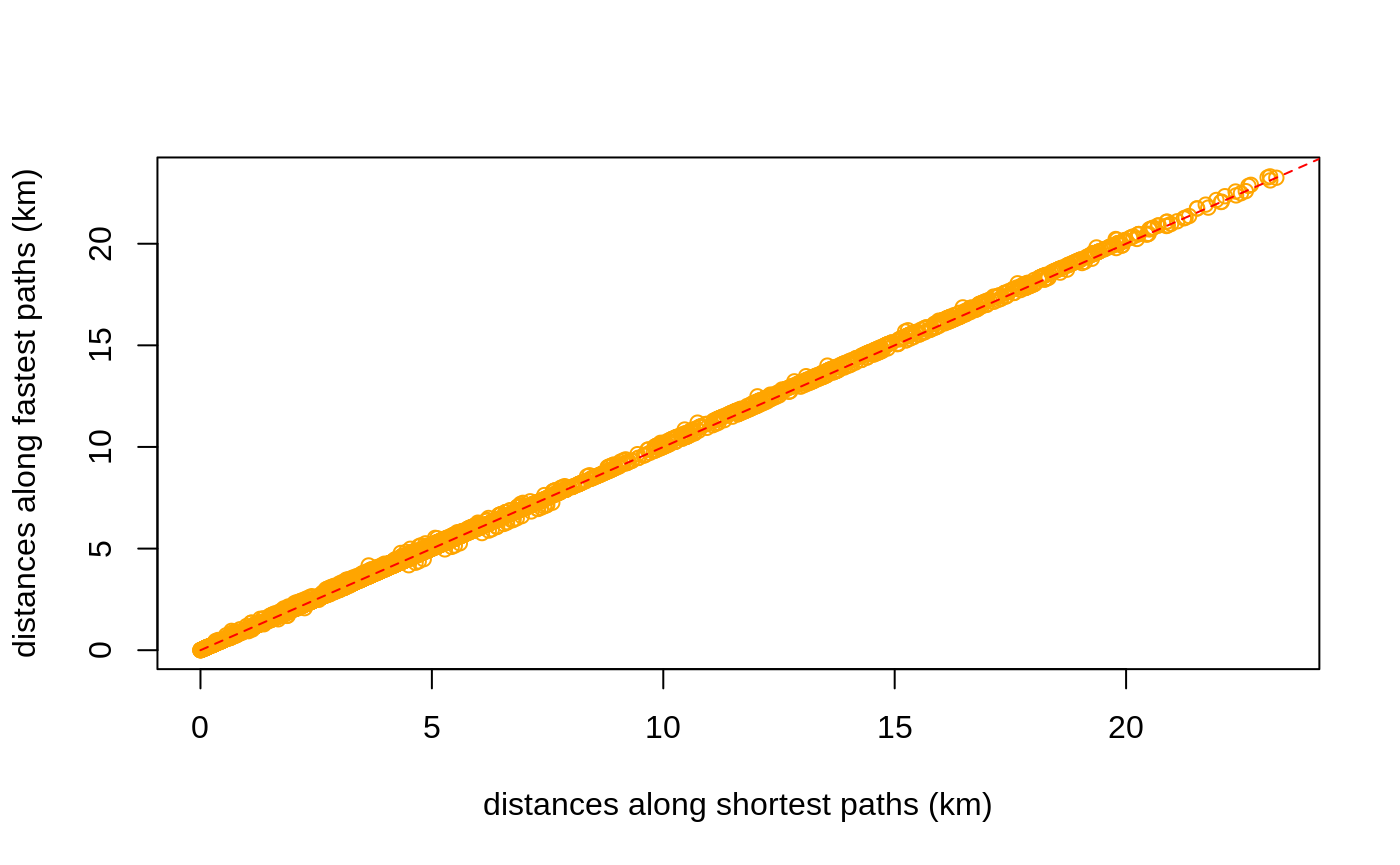
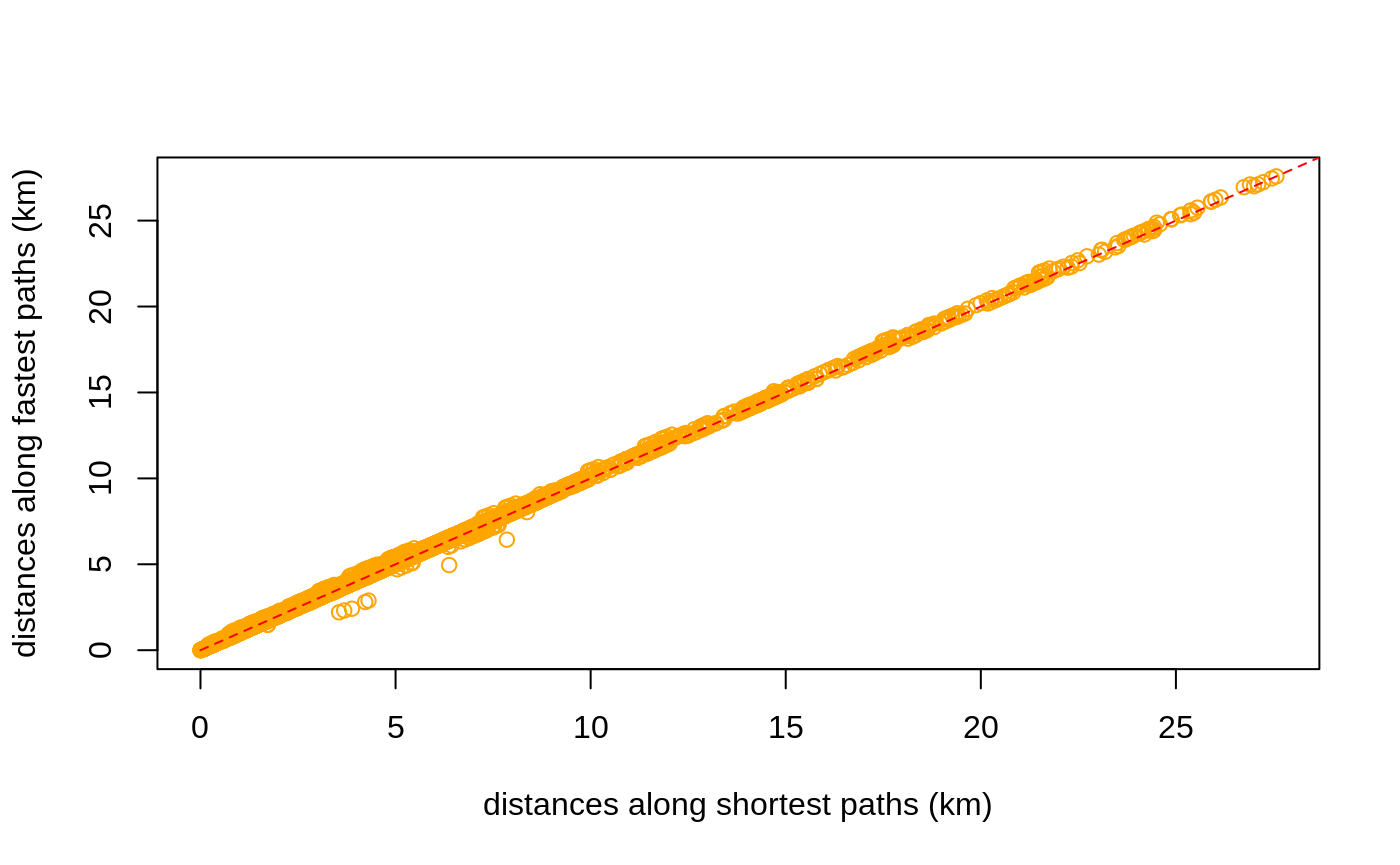
Built site for dodgr: 0.2.3@3f12f48

diff --git a/articles/dodgr.html b/articles/dodgr.html
@@ -347,7 +347,7 @@ Figure 2: A <strong>dual</strong>-weighted, directed graph in which the weights 
 <p>The <code>dodgr</code> packages includes a function to select a random connected portion of graph including a specified number of vertices. This function is used in the <a href="https://atfutures.github.io/dodgr/reference/compare_heaps.html"><code><a href="../reference/compare_heaps.html">compare_heaps()</a></code></a> function described below, but is also useful for general statistical analyses of large graphs which may otherwise take too long to compute.</p>
 <div class="sourceCode" id="cb59"><pre class="sourceCode r"><code class="sourceCode r"><a class="sourceLine" id="cb59-1" data-line-number="1">graph_sub &lt;-<span class="st"> </span><span class="kw"><a href="../reference/dodgr_sample.html">dodgr_sample</a></span> (graph, <span class="dt">nverts =</span> <span class="dv">100</span>)</a>
 <a class="sourceLine" id="cb59-2" data-line-number="2"><span class="kw"><a href="https://rdrr.io/r/base/nrow.html">nrow</a></span> (graph_sub)</a></code></pre></div>
-<pre><code>## [1] 201</code></pre>
+<pre><code>## [1] 207</code></pre>
 <p>The random sample has around twice as many edges as vertices, in accordance with the statistics calculated above.</p>
 <div class="sourceCode" id="cb61"><pre class="sourceCode r"><code class="sourceCode r"><a class="sourceLine" id="cb61-1" data-line-number="1"><span class="kw"><a href="https://rdrr.io/r/base/nrow.html">nrow</a></span> (<span class="kw"><a href="../reference/dodgr_vertices.html">dodgr_vertices</a></span> (graph_sub))</a></code></pre></div>
 <pre><code>## [1] 100</code></pre>
@@ -425,31 +425,31 @@ Figure 2: A <strong>dual</strong>-weighted, directed graph in which the weights 
 <div class="sourceCode" id="cb77"><pre class="sourceCode r"><code class="sourceCode r"><a class="sourceLine" id="cb77-1" data-line-number="1"><span class="kw"><a href="../reference/compare_heaps.html">compare_heaps</a></span> (graph, <span class="dt">nverts =</span> <span class="dv">1000</span>, <span class="dt">replications =</span> <span class="dv">1</span>)</a></code></pre></div>
 <pre><code>## Loading required namespace: rbenchmark</code></pre>
 <pre><code>##                                                                                   test
-## 7       d &lt;- dodgr_dists(graph_contracted, from = from_id, to = to_id, heap = "FHeap")
-## 11        d &lt;- dodgr_dists(graph_contracted, from = from_id, to = to_id, heap = "set")
 ## 6       d &lt;- dodgr_dists(graph_contracted, from = from_id, to = to_id, heap = "BHeap")
+## 10     d &lt;- dodgr_dists(graph_contracted, from = from_id, to = to_id, heap = "Heap23")
+## 11        d &lt;- dodgr_dists(graph_contracted, from = from_id, to = to_id, heap = "set")
+## 7       d &lt;- dodgr_dists(graph_contracted, from = from_id, to = to_id, heap = "FHeap")
 ## 8     d &lt;- dodgr_dists(graph_contracted, from = from_id, to = to_id, heap = "TriHeap")
 ## 9  d &lt;- dodgr_dists(graph_contracted, from = from_id, to = to_id, heap = "TriHeapExt")
-## 10     d &lt;- dodgr_dists(graph_contracted, from = from_id, to = to_id, heap = "Heap23")
 ## 1                  d &lt;- dodgr_dists(graph, from = from_id, to = to_id, heap = "BHeap")
 ## 12                  d &lt;- igraph::distances(igr, v = from_id, to = to_id, mode = "out")
 ## 2                  d &lt;- dodgr_dists(graph, from = from_id, to = to_id, heap = "FHeap")
-## 3                d &lt;- dodgr_dists(graph, from = from_id, to = to_id, heap = "TriHeap")
 ## 5                 d &lt;- dodgr_dists(graph, from = from_id, to = to_id, heap = "Heap23")
+## 3                d &lt;- dodgr_dists(graph, from = from_id, to = to_id, heap = "TriHeap")
 ## 4             d &lt;- dodgr_dists(graph, from = from_id, to = to_id, heap = "TriHeapExt")
 ##    replications elapsed relative user.self sys.self user.child sys.child
-## 7             1   0.003    1.000     0.005        0          0         0
-## 11            1   0.003    1.000     0.004        0          0         0
-## 6             1   0.004    1.333     0.005        0          0         0
-## 8             1   0.004    1.333     0.006        0          0         0
-## 9             1   0.004    1.333     0.004        0          0         0
-## 10            1   0.005    1.667     0.006        0          0         0
-## 1             1   0.012    4.000     0.018        0          0         0
-## 12            1   0.015    5.000     0.015        0          0         0
-## 2             1   0.017    5.667     0.027        0          0         0
-## 3             1   0.019    6.333     0.032        0          0         0
-## 5             1   0.019    6.333     0.032        0          0         0
-## 4             1   0.021    7.000     0.022        0          0         0</code></pre>
+## 6             1   0.003    1.000     0.004        0          0         0
+## 10            1   0.004    1.333     0.007        0          0         0
+## 11            1   0.004    1.333     0.004        0          0         0
+## 7             1   0.005    1.667     0.006        0          0         0
+## 8             1   0.005    1.667     0.007        0          0         0
+## 9             1   0.005    1.667     0.005        0          0         0
+## 1             1   0.014    4.667     0.020        0          0         0
+## 12            1   0.018    6.000     0.017        0          0         0
+## 2             1   0.019    6.333     0.032        0          0         0
+## 5             1   0.021    7.000     0.036        0          0         0
+## 3             1   0.022    7.333     0.038        0          0         0
+## 4             1   0.025    8.333     0.025        0          0         0</code></pre>
 <p>The key column of that <code>data.frame</code> is <code>relative</code>, which quantifies the relative performance of each test in relation to the best which is given a score of 1. <code>dodgr</code> using the default <code>heap = "BHeap"</code>, which is a binary heap priority queue, performs faster than <a href="https://igraph.org"><code>igraph</code></a> <span class="citation">(Csardi and Nepusz 2006)</span> for these graphs. Different kind of graphs will perform differently with different priority queue structures, and this function enables users to empirically discern the optimal heap for their kind of graph.</p>
 <p>Note, however, that this is not an entirely fair comparison, because <code>dodgr</code> calculates dual-weighted distances, whereas <a href="https://igraph.org"><code>igraph</code></a>—and indeed all other <strong>R</strong> packages—only directly calculate distances based on a single set of weights. Implementing dual-weighted routing in these cases requires explicitly re-tracing all paths and summing the second set of weights along each path. A time comparison in that case would be very strongly in favour of <code>dodgr</code>. Moreover, <code>dodgr</code> can convert graphs to contracted form through removing redundant vertices, as detailed in the following section. Doing so greatly improves performance with respect to <a href="https://igraph.org"><code>igraph</code></a>.</p>
 <p>For those wishing to do explicit comparisons themselves, the following code generates the <a href="https://igraph.org"><code>igraph</code></a> equivalent of <a href="https://atfutures.github.io/dodgr/reference/dodgr_distances.html"><code><a href="../reference/dodgr_distances.html">dodgr_distances()</a></code></a>, although of course for single-weighted graphs only:</p>
@@ -488,7 +488,7 @@ Figure 3: <strong>(A)</strong> Vertex#2 is redundant for routing calculations fr
 ## 1   d2 &lt;- dodgr_dists(grc, from = from, to = to)            2   0.009
 ##   relative user.self sys.self user.child sys.child
 ## 2    5.111     0.066        0          0         0
-## 1    1.000     0.011        0          0         0</code></pre>
+## 1    1.000     0.012        0          0         0</code></pre>
 <p>And contracting the graph has a similar effect of speeding up pairwise routing between these 100 points. All routing algorithms scale non-linearly with size, and relative improvements in efficiency will be even greater for larger graphs.</p>
 <div id="routing-on-contracted-graphs" class="section level2">
 <h2 class="hasAnchor">
@@ -500,11 +500,11 @@ Figure 3: <strong>(A)</strong> Vertex#2 is redundant for routing calculations fr
 <pre><code>## [1] 672</code></pre>
 <div class="sourceCode" id="cb90"><pre class="sourceCode r"><code class="sourceCode r"><a class="sourceLine" id="cb90-1" data-line-number="1">verts &lt;-<span class="st"> </span><span class="kw"><a href="https://rdrr.io/r/base/sample.html">sample</a></span> (<span class="kw"><a href="../reference/dodgr_vertices.html">dodgr_vertices</a></span> (graph)<span class="op">$</span>id, <span class="dt">size =</span> <span class="dv">100</span>)</a>
 <a class="sourceLine" id="cb90-2" data-line-number="2"><span class="kw"><a href="https://rdrr.io/r/utils/head.html">head</a></span> (verts) <span class="co"># a character vector</span></a></code></pre></div>
-<pre><code>## [1] "6161853487" "2608159695" "1376768547" "2627422264" "2588155710"
-## [6] "2195424938"</code></pre>
+<pre><code>## [1] "571423442"  "1204772663" "3697937604" "3697942889" "3921523006"
+## [6] "1148814809"</code></pre>
 <div class="sourceCode" id="cb92"><pre class="sourceCode r"><code class="sourceCode r"><a class="sourceLine" id="cb92-1" data-line-number="1">grc &lt;-<span class="st"> </span><span class="kw"><a href="../reference/dodgr_contract_graph.html">dodgr_contract_graph</a></span> (graph, verts)</a>
 <a class="sourceLine" id="cb92-2" data-line-number="2"><span class="kw"><a href="https://rdrr.io/r/base/nrow.html">nrow</a></span> (grc)</a></code></pre></div>
-<pre><code>## [1] 840</code></pre>
+<pre><code>## [1] 860</code></pre>
 <p>Retaining the nominated vertices yields a graph with considerably more edges than the fully contracted graph excluding these vertices. The <a href="https://atfutures.github.io/dodgr/reference/dodgr_distances.html"><code><a href="../reference/dodgr_distances.html">dodgr_distances()</a></code></a> function can be applied to the latter graph to obtain accurate distances precisely routed between these points, yet using the speed advantages of graph contraction.</p>
 </div>
 </div>
@@ -545,44 +545,42 @@ Figure 3: <strong>(A)</strong> Vertex#2 is redundant for routing calculations fr
 <pre><code>## [1] 10</code></pre>
 <p>The result (<code>dp</code>) is a list of 10 items, each of which contains 5 vectors. An example is,</p>
 <div class="sourceCode" id="cb99"><pre class="sourceCode r"><code class="sourceCode r"><a class="sourceLine" id="cb99-1" data-line-number="1">dp [[<span class="dv">1</span>]] [[<span class="dv">1</span>]]</a></code></pre></div>
-<pre><code>##   [1] "2608163948" "2608163947" "2608163946" "2608163945" "2608163944"
-##   [6] "2608163943" "2608163942" "2608163941" "2608163940" "2608163939"
-##  [11] "2608163938" "2608163937" "2608163936" "2608163935" "2627428636"
-##  [16] "2627428640" "2627428642" "3921512068" "2627428643" "2627428645"
-##  [21] "2627428641" "2627428646" "2627428638" "2627428651" "2627430653"
-##  [26] "2627428637" "2627428647" "2627428629" "2627428627" "2627428628"
-##  [31] "2627428631" "2627428633" "2627428625" "1143452165" "1143452327"
-##  [36] "1143452463" "1143452113" "1143452207" "1143452383" "1143452534"
-##  [41] "1143452145" "2627440420" "2627440424" "1143452232" "1143452410"
-##  [46] "1143452262" "1143452379" "1143452183" "1143452174" "1143452087"
-##  [51] "1143452415" "1143452293" "1143452135" "1143452063" "1143452360"
-##  [56] "1143452234" "1143452099" "1143452506" "3697940688" "3697940693"
-##  [61] "571423793"  "1143452264" "571423799"  "1143452116" "1143452536"
-##  [66] "571423809"  "571423815"  "571423818"  "1143452332" "571423819" 
-##  [71] "977490135"  "977490141"  "977490130"  "1388482916" "1388483223"
-##  [76] "1388482536" "1388482060" "2718045832" "2195424937" "2195424935"
-##  [81] "2195424934" "2195424938" "2195424940" "2195424943" "2195424944"
-##  [86] "2195424950" "2195424951" "2195424956" "2195424955" "2195424948"
-##  [91] "2195424942" "2195424936" "2195424933" "2195424931" "2195424932"
-##  [96] "2195424929" "2195424930" "2195424945" "2195424953" "2195424954"
-## [101] "2195424961" "2195424963" "2195424968" "2195424970" "2195424973"
-## [106] "2195424974" "2195424980" "2195424981" "2195424983" "2195424988"
-## [111] "2195424989" "2195424993" "2195425003" "2195425012" "2195425016"
-## [116] "2195425019" "2627488725" "2195425028" "2195425035" "2195425056"
-## [121] "2195425066" "2195425067" "2195425068" "2195425069" "2195425070"
-## [126] "2195425073" "2195425074" "2195425075" "2195425078" "2195425080"
-## [131] "2195425082" "2195425085" "2195425087" "2195425092"</code></pre>
+<pre><code>##   [1] "3921523906" "1204772726" "1204772914" "1388483784" "1388482296"
+##   [6] "1388483001" "1204772748" "1204772807" "1204772888" "1388483168"
+##  [11] "1204772860" "1204772663" "1388482943" "1388482235" "977472736" 
+##  [16] "977472640"  "1388483756" "1388483120" "977472872"  "977472830" 
+##  [21] "977473072"  "977472969"  "1388483451" "977473047"  "6410121123"
+##  [26] "2627480728" "4552228189" "977472811"  "977472776"  "5351394447"
+##  [31] "977473010"  "977472907"  "977473143"  "1143452509" "5351394448"
+##  [36] "1143452137" "1143452244" "5351394641" "1143452423" "1143452067"
+##  [41] "5351394642" "1143452181" "1143452303" "1143452492" "1143452094"
+##  [46] "5351394644" "5351394643" "1143452226" "1143452348" "2718034071"
+##  [51] "1143452546" "1143452128" "1143452281" "1143452400" "1143452081"
+##  [56] "1143452160" "1143452325" "5351394645" "1143452459" "5351394646"
+##  [61] "2627430641" "5351394647" "1143452205" "5351394648" "1143452283"
+##  [66] "1143452404" "2627428625" "1143452165" "1143452327" "1143452463"
+##  [71] "1143452113" "1143452207" "1143452383" "1143452534" "1143452145"
+##  [76] "2627440420" "2627440424" "1143452232" "1143452410" "1143452262"
+##  [81] "1143452379" "1143452183" "1143452174" "1143452087" "1143452415"
+##  [86] "1143452293" "1143452135" "1143452063" "1143452360" "1143452234"
+##  [91] "1143452099" "1143452506" "3697940688" "3697940693" "571423793" 
+##  [96] "1143452264" "571423799"  "1143452116" "1143452536" "571423809" 
+## [101] "571423815"  "571423818"  "1143452332" "571423819"  "2627444770"
+## [106] "1143452467" "571423820"  "571423821"  "571423823"  "571423824" 
+## [111] "2627444771" "2627444772" "2627444773" "571423157"  "571423164" 
+## [116] "571423169"  "3921514718" "2627444775" "571423170"  "2627444774"
+## [121] "977490136"  "571423179"  "5366412458"</code></pre>
 <p>For spatial graphs, the coordinates of these paths can be obtained by extracting the vertices with <code><a href="../reference/dodgr_vertices.html">dodgr_vertices()</a></code> and matching the vertex IDs:</p>
 <div class="sourceCode" id="cb101"><pre class="sourceCode r"><code class="sourceCode r"><a class="sourceLine" id="cb101-1" data-line-number="1">verts &lt;-<span class="st"> </span><span class="kw"><a href="../reference/dodgr_vertices.html">dodgr_vertices</a></span> (graph)</a>
 <a class="sourceLine" id="cb101-2" data-line-number="2">path1 &lt;-<span class="st"> </span>verts [<span class="kw"><a href="https://rdrr.io/r/base/match.html">match</a></span> (dp [[<span class="dv">1</span>]] [[<span class="dv">1</span>]], verts<span class="op">$</span>id), ]</a>
 <a class="sourceLine" id="cb101-3" data-line-number="3"><span class="kw"><a href="https://rdrr.io/r/utils/head.html">head</a></span> (path1)</a></code></pre></div>
 <pre><code>##              id        x        y component    n
-## 4040 2608163948 76.46236 15.34244         2 2018
-## 4038 2608163947 76.46226 15.34261         2 2017
-## 4036 2608163946 76.46218 15.34268         2 2016
-## 4034 2608163945 76.46198 15.34280         2 2015
-## 4032 2608163944 76.46186 15.34279         2 2014
-## 4030 2608163943 76.46167 15.34290         2 2013</code></pre>
+## 5140 3921523906 76.44344 15.34444         2 2539
+## 1534 1204772726 76.44340 15.34466         2  779
+## 1536 1204772914 76.44401 15.34403         2  780
+## 1538 1388483784 76.44425 15.34391         2  781
+## 1540 1388482296 76.44451 15.34383         2  782
+## 1542 1388483001 76.44470 15.34382         2  783</code></pre>
 <p>Paths calculated on contracted graphs will of course have fewer vertices than those calculated on full graphs.</p>
 </div>
 <div id="aggregated-flows" class="section level1">
@@ -616,17 +614,17 @@ Figure 3: <strong>(A)</strong> Vertex#2 is redundant for routing calculations fr
 ## 4 15.34173   8.888670    9.87630 unclassified 28565950         1  2.133281
 ## 5 15.34179   9.326536   10.36282 unclassified 28565950         1  2.238369
 ## 6 15.34174   9.326536   10.36282 unclassified 28565950         1  2.238369
-##   time_weighted flow
-## 1     35.317912    0
-## 2     35.317912    0
-## 3      2.370312    0
-## 4      2.370312    0
-## 5      2.487076    0
-## 6      2.487076    0</code></pre>
+##   time_weighted     flow
+## 1     35.317912 23.28219
+## 2     35.317912  0.00000
+## 3      2.370312 23.28219
+## 4      2.370312  0.00000
+## 5      2.487076 23.28219
+## 6      2.487076  0.00000</code></pre>
 <p>Most flows are zero because they have only been calculated between very few points in the graph.</p>
 <div class="sourceCode" id="cb106"><pre class="sourceCode r"><code class="sourceCode r"><a class="sourceLine" id="cb106-1" data-line-number="1"><span class="kw"><a href="https://rdrr.io/r/base/summary.html">summary</a></span> (graph_f<span class="op">$</span>flow)</a></code></pre></div>
 <pre><code>##    Min. 1st Qu.  Median    Mean 3rd Qu.    Max. 
-##   0.000   0.000   0.000   8.588   0.000 168.436</code></pre>
+##   0.000   0.000   0.000   3.893   0.000  46.718</code></pre>
 </div>
 <div id="flow-dispersal" class="section level2">
 <h2 class="hasAnchor">
@@ -636,7 +634,7 @@ Figure 3: <strong>(A)</strong> Vertex#2 is redundant for routing calculations fr
 <a class="sourceLine" id="cb108-2" data-line-number="2">graph_f &lt;-<span class="st"> </span><span class="kw"><a href="../reference/dodgr_flows_disperse.html">dodgr_flows_disperse</a></span> (graph, <span class="dt">from =</span> from, <span class="dt">dens =</span> dens)</a>
 <a class="sourceLine" id="cb108-3" data-line-number="3"><span class="kw"><a href="https://rdrr.io/r/base/summary.html">summary</a></span> (graph_f<span class="op">$</span>flow)</a></code></pre></div>
 <pre><code>##    Min. 1st Qu.  Median    Mean 3rd Qu.    Max. 
-## 0.00000 0.00000 0.01145 0.11044 0.09152 1.43554</code></pre>
+## 0.00000 0.00000 0.01318 0.10805 0.13711 1.06508</code></pre>
 </div>
 <div id="merging-directed-flows" class="section level2">
 <h2 class="hasAnchor">
@@ -646,7 +644,7 @@ Figure 3: <strong>(A)</strong> Vertex#2 is redundant for routing calculations fr
 <p>Resultant graphs produced by <a href="https://atfutures.github.io/dodgr/reference/merge_directed_flows.html"><code><a href="../reference/merge_directed_flows.html">merge_directed_flows()</a></code></a> only include those edges having non-zero flows, and so:</p>
 <div class="sourceCode" id="cb111"><pre class="sourceCode r"><code class="sourceCode r"><a class="sourceLine" id="cb111-1" data-line-number="1"><span class="kw"><a href="https://rdrr.io/r/base/nrow.html">nrow</a></span> (graph_f); <span class="kw"><a href="https://rdrr.io/r/base/nrow.html">nrow</a></span> (graph_undir) <span class="co"># the latter is much smaller</span></a></code></pre></div>
 <pre><code>## [1] 5973</code></pre>
-<pre><code>## [1] 2729</code></pre>
+<pre><code>## [1] 2798</code></pre>
 <p>The resultant graph can readily be merged with the original graph to regain the original data on vertex coordinates through</p>
 <div class="sourceCode" id="cb114"><pre class="sourceCode r"><code class="sourceCode r"><a class="sourceLine" id="cb114-1" data-line-number="1">graph &lt;-<span class="st"> </span>graph [graph_undir<span class="op">$</span>edge_id, ]</a>
 <a class="sourceLine" id="cb114-2" data-line-number="2">graph<span class="op">$</span>flow &lt;-<span class="st"> </span>graph_undir<span class="op">$</span>flow</a></code></pre></div>

diff --git a/articles/times.html b/articles/times.html
@@ -230,11 +230,11 @@ Figure 1: Graph modification to account for turn penalties, which introduces the
 <p><img src="times_files/figure-html/shortest-vs-fastest-1.png" width="700"></p>
 <p>The average distance between the two (in metres) is:</p>
 <div class="sourceCode" id="cb9"><pre class="sourceCode r"><code class="sourceCode r"><a class="sourceLine" id="cb9-1" data-line-number="1"><span class="kw"><a href="https://rdrr.io/r/base/mean.html">mean</a></span> (<span class="kw"><a href="https://rdrr.io/r/base/MathFun.html">abs</a></span> (d_time <span class="op">-</span><span class="st"> </span>d_dist), <span class="dt">na.rm =</span> <span class="ot">TRUE</span>)</a></code></pre></div>
-<pre><code>## [1] 37.12336</code></pre>
+<pre><code>## [1] 52.57232</code></pre>
 <p>The plot reveals that shortest distances are indeed somewhat shorter than distances along fastest paths, but also that some fastest paths are actually shorter than shortest paths:</p>
 <div class="sourceCode" id="cb11"><pre class="sourceCode r"><code class="sourceCode r"><a class="sourceLine" id="cb11-1" data-line-number="1">index &lt;-<span class="st"> </span><span class="kw"><a href="https://rdrr.io/r/base/which.html">which</a></span> (<span class="op">!</span><span class="kw"><a href="https://rdrr.io/r/base/NA.html">is.na</a></span> (d_time) <span class="op">&amp;</span><span class="st"> </span><span class="op">!</span><span class="kw"><a href="https://rdrr.io/r/base/NA.html">is.na</a></span> (d_dist))</a>
 <a class="sourceLine" id="cb11-2" data-line-number="2"><span class="kw"><a href="https://rdrr.io/r/base/length.html">length</a></span> (<span class="kw"><a href="https://rdrr.io/r/base/which.html">which</a></span> (d_time [index] <span class="op">&lt;</span><span class="st"> </span>d_dist [index])) <span class="op">/</span><span class="st"> </span><span class="kw"><a href="https://rdrr.io/r/base/length.html">length</a></span> (index)</a></code></pre></div>
-<pre><code>## [1] 0.01885692</code></pre>
+<pre><code>## [1] 0.01298701</code></pre>
 <p>While <code>dodgr</code> and indeed all routing engines attempt to maximally reconcile differences between fastest and shortest routes, there nevertheless remain important discrepancies. Foremost among these, and the primary reason why some fastest routes may in fact be shorter than shortest routes, is that fastest routes allocate preferences for different kinds of way based both on the <code>value</code> column in the <code>weighting_profiles$weighting_profiles</code> table illustrated above, and on the actual maximum speed of a given edge, which itself may be a combination of maximum speeds as specified in OSM itself, maximum speeds from the <code>weighting_profiles$weighting_profiles</code> table, or values specific to a given surface. The result is that some unique combination of maximum speeds along a network may lead to <em>fastest</em> routes being preferentially directed along a path that is actually shorter than the direct shortest path which is calculated independent of maximum speed values.</p>
 <p>Such discrepancies are important in understanding differences in routes <em>times</em> calculated along shortest versus fastest paths. These times can be calculated (in seconds) with the <a href="https://atfutures.github.io/dodgr/reference/dodgr_times.html"><code><a href="../reference/dodgr_times.html">dodgr_times()</a></code></a> function:</p>
 <div class="sourceCode" id="cb13"><pre class="sourceCode r"><code class="sourceCode r"><a class="sourceLine" id="cb13-1" data-line-number="1">t_dist &lt;-<span class="st"> </span><span class="kw"><a href="../reference/dodgr_times.html">dodgr_times</a></span> (graph, <span class="dt">from =</span> from, <span class="dt">to =</span> to, <span class="dt">shortest =</span> <span class="ot">TRUE</span>) <span class="co"># default</span></a>
@@ -245,11 +245,11 @@ Figure 1: Graph modification to account for turn penalties, which introduces the
 <a class="sourceLine" id="cb13-6" data-line-number="6"><span class="kw"><a href="https://rdrr.io/r/graphics/lines.html">lines</a></span> (<span class="dv">0</span><span class="op">:</span><span class="dv">100</span>, <span class="dv">0</span><span class="op">:</span><span class="dv">100</span>, <span class="dt">col =</span> <span class="st">"red"</span>, <span class="dt">lty =</span> <span class="dv">2</span>)</a></code></pre></div>
 <p><img src="times_files/figure-html/shortest-vs-fastest-times-1.png" width="700"></p>
 <div class="sourceCode" id="cb14"><pre class="sourceCode r"><code class="sourceCode r"><a class="sourceLine" id="cb14-1" data-line-number="1"><span class="kw"><a href="https://rdrr.io/r/base/mean.html">mean</a></span> (<span class="kw"><a href="https://rdrr.io/r/base/MathFun.html">abs</a></span> (t_time <span class="op">-</span><span class="st"> </span>t_dist), <span class="dt">na.rm =</span> <span class="ot">TRUE</span>)</a></code></pre></div>
-<pre><code>## [1] 37.30224</code></pre>
+<pre><code>## [1] 49.57471</code></pre>
 <p>As above, times along fastest paths are generally less than times along shortest paths, although there are again a few exceptions:</p>
 <div class="sourceCode" id="cb16"><pre class="sourceCode r"><code class="sourceCode r"><a class="sourceLine" id="cb16-1" data-line-number="1">index &lt;-<span class="st"> </span><span class="kw"><a href="https://rdrr.io/r/base/which.html">which</a></span> (<span class="op">!</span><span class="kw"><a href="https://rdrr.io/r/base/NA.html">is.na</a></span> (t_time) <span class="op">&amp;</span><span class="st"> </span><span class="op">!</span><span class="kw"><a href="https://rdrr.io/r/base/NA.html">is.na</a></span> (t_dist))</a>
 <a class="sourceLine" id="cb16-2" data-line-number="2"><span class="kw"><a href="https://rdrr.io/r/base/length.html">length</a></span> (<span class="kw"><a href="https://rdrr.io/r/base/which.html">which</a></span> (t_dist [index] <span class="op">&lt;</span><span class="st"> </span>t_time [index])) <span class="op">/</span><span class="st"> </span><span class="kw"><a href="https://rdrr.io/r/base/length.html">length</a></span> (index)</a></code></pre></div>
-<pre><code>## [1] 0.00933126</code></pre>
+<pre><code>## [1] 0.02727273</code></pre>
 <p>These results demonstrate how the combination of the <a href="https://atfutures.github.io/dodgr/reference/dodgr_distances.html"><code><a href="../reference/dodgr_distances.html">dodgr_distances()</a></code></a> and <a href="https://atfutures.github.io/dodgr/reference/dodgr_times.html"><code><a href="../reference/dodgr_times.html">dodgr_times()</a></code></a> functions enable calculation of both distances and times along both shortest and fastest paths.</p>
 <div id="time-based-paths-and-flow-aggregation" class="section level2">
 <h2 class="hasAnchor">

diff --git a/reference/compare_heaps.html b/reference/compare_heaps.html
@@ -156,8 +156,8 @@ fair comparisons, run only once or re-start the current R session.</p>
     <h2 class="hasAnchor" id="examples"><a class="anchor" href="#examples"></a>Examples</h2>
     <pre class="examples"><div class='input'><span class='no'>graph</span> <span class='kw'>&lt;-</span> <span class='fu'><a href='weight_streetnet.html'>weight_streetnet</a></span> (<span class='no'>hampi</span>)
 <span class='fu'>compare_heaps</span> (<span class='no'>graph</span>, <span class='kw'>nverts</span> <span class='kw'>=</span> <span class='fl'>1000</span>, <span class='kw'>replications</span> <span class='kw'>=</span> <span class='fl'>1</span>)</div><div class='output co'>#&gt; <span class='message'>Loading required namespace: rbenchmark</span></div><div class='output co'>#&gt;                                                                                   test
-#&gt; 11        d &lt;- dodgr_dists(graph_contracted, from = from_id, to = to_id, heap = "set")
 #&gt; 6       d &lt;- dodgr_dists(graph_contracted, from = from_id, to = to_id, heap = "BHeap")
+#&gt; 11        d &lt;- dodgr_dists(graph_contracted, from = from_id, to = to_id, heap = "set")
 #&gt; 7       d &lt;- dodgr_dists(graph_contracted, from = from_id, to = to_id, heap = "FHeap")
 #&gt; 8     d &lt;- dodgr_dists(graph_contracted, from = from_id, to = to_id, heap = "TriHeap")
 #&gt; 9  d &lt;- dodgr_dists(graph_contracted, from = from_id, to = to_id, heap = "TriHeapExt")
@@ -169,18 +169,18 @@ fair comparisons, run only once or re-start the current R session.</p>
 #&gt; 3                d &lt;- dodgr_dists(graph, from = from_id, to = to_id, heap = "TriHeap")
 #&gt; 4             d &lt;- dodgr_dists(graph, from = from_id, to = to_id, heap = "TriHeapExt")
 #&gt;    replications elapsed relative user.self sys.self user.child sys.child
-#&gt; 11            1   0.003    1.000     0.005        0          0         0
-#&gt; 6             1   0.004    1.333     0.005        0          0         0
-#&gt; 7             1   0.004    1.333     0.006        0          0         0
-#&gt; 8             1   0.004    1.333     0.006        0          0         0
-#&gt; 9             1   0.004    1.333     0.004        0          0         0
-#&gt; 10            1   0.005    1.667     0.006        0          0         0
-#&gt; 1             1   0.012    4.000     0.017        0          0         0
-#&gt; 12            1   0.015    5.000     0.014        0          0         0
-#&gt; 2             1   0.017    5.667     0.028        0          0         0
-#&gt; 5             1   0.019    6.333     0.032        0          0         0
-#&gt; 3             1   0.020    6.667     0.032        0          0         0
-#&gt; 4             1   0.021    7.000     0.022        0          0         0</div></pre>
+#&gt; 6             1   0.004     1.00     0.006    0.000          0         0
+#&gt; 11            1   0.004     1.00     0.006    0.000          0         0
+#&gt; 7             1   0.006     1.50     0.008    0.000          0         0
+#&gt; 8             1   0.006     1.50     0.008    0.000          0         0
+#&gt; 9             1   0.006     1.50     0.006    0.000          0         0
+#&gt; 10            1   0.006     1.50     0.008    0.000          0         0
+#&gt; 1             1   0.015     3.75     0.022    0.001          0         0
+#&gt; 12            1   0.019     4.75     0.018    0.000          0         0
+#&gt; 2             1   0.023     5.75     0.037    0.000          0         0
+#&gt; 5             1   0.023     5.75     0.040    0.000          0         0
+#&gt; 3             1   0.024     6.00     0.041    0.000          0         0
+#&gt; 4             1   0.026     6.50     0.025    0.000          0         0</div></pre>
   </div>
   <div class="col-md-3 hidden-xs hidden-sm" id="sidebar">
     <h2>Contents</h2>

diff --git a/index.html b/index.html
@@ -77,6 +77,7 @@
 <div id="dodgr-distances-on-directed-graphs-in-r" class="section level1">
 <div class="page-header"><h1 class="hasAnchor">
 <a href="#dodgr-distances-on-directed-graphs-in-r" class="anchor"></a>dodgr: Distances on Directed Graphs in R</h1></div>
+<p><strong>NOTE</strong> <code>dodgr</code> has temporarily been archived on CRAN (as of 1 Oct 2019), and so is not currently available for installation via <code><a href="https://rdrr.io/r/utils/install.packages.html">install.packages()</a></code>. We are urgently working on a solution, and expect the package to reappear on CRAN any day. We apologise for any inconvenience. In the meantime, the package can still be installed via <code><a href="https://rdrr.io/pkg/remotes/man/install_github.html">remotes::install_github()</a></code>, as described below.</p>
 <p>R package for efficient calculation of many-to-many pairwise distances on dual-weighted directed graphs, for aggregation of flows throughout networks, and for highly realistic routing through street networks (time-based routing considering incline, turn-angles, surface quality, everything).</p>
 <div id="whats-so-special" class="section level2">
 <h2 class="hasAnchor">
@@ -96,7 +97,7 @@
 <p>Then load with</p>
 <div class="sourceCode" id="cb2"><pre class="sourceCode r"><code class="sourceCode r"><a class="sourceLine" id="cb2-1" data-line-number="1"><span class="kw"><a href="https://rdrr.io/r/base/library.html">library</a></span> (dodgr)</a>
 <a class="sourceLine" id="cb2-2" data-line-number="2"><span class="kw"><a href="https://rdrr.io/r/utils/packageDescription.html">packageVersion</a></span> (<span class="st">"dodgr"</span>)</a>
-<a class="sourceLine" id="cb2-3" data-line-number="3"><span class="co">#&gt; [1] '0.1.4.5'</span></a></code></pre></div>
+<a class="sourceLine" id="cb2-3" data-line-number="3"><span class="co">#&gt; [1] '0.2.3'</span></a></code></pre></div>
 </div>
 <div id="usage-sample-data-and-dodgr-networks" class="section level2">
 <h2 class="hasAnchor">
@@ -562,7 +563,7 @@
 <td align="right">1</td>
 <td align="right">95.358362</td>
 <td align="right">119.197952</td>
-<td align="right">20.11498</td>
+<td align="right">0.00000</td>
 </tr>
 <tr class="even">
 <td align="right">1</td>
@@ -580,7 +581,7 @@
 <td align="right">1</td>
 <td align="right">95.358362</td>
 <td align="right">119.197952</td>
-<td align="right">23.11887</td>
+<td align="right">23.94885</td>
 </tr>
 <tr class="odd">
 <td align="right">1</td>
@@ -598,7 +599,7 @@
 <td align="right">1</td>
 <td align="right">6.399843</td>
 <td align="right">7.999803</td>
-<td align="right">20.11498</td>
+<td align="right">0.00000</td>
 </tr>
 <tr class="even">
 <td align="right">1</td>
@@ -616,7 +617,7 @@
 <td align="right">1</td>
 <td align="right">6.399843</td>
 <td align="right">7.999803</td>
-<td align="right">23.11887</td>
+<td align="right">23.94885</td>
 </tr>
 <tr class="odd">
 <td align="right">1</td>
@@ -634,7 +635,7 @@
 <td align="right">1</td>
 <td align="right">6.715106</td>
 <td align="right">8.393882</td>
-<td align="right">20.11498</td>
+<td align="right">0.00000</td>
 </tr>
 <tr class="even">
 <td align="right">1</td>
@@ -652,7 +653,7 @@
 <td align="right">1</td>
 <td align="right">6.715106</td>
 <td align="right">8.393882</td>
-<td align="right">23.11887</td>
+<td align="right">23.94885</td>
 </tr>
 </tbody>
 </table>

diff --git a/reference/dodgr_sample.html b/reference/dodgr_sample.html
@@ -143,7 +143,7 @@ the requested <code>nverts</code>.</p>
     <h2 class="hasAnchor" id="examples"><a class="anchor" href="#examples"></a>Examples</h2>
     <pre class="examples"><div class='input'><span class='no'>graph</span> <span class='kw'>&lt;-</span> <span class='fu'><a href='weight_streetnet.html'>weight_streetnet</a></span> (<span class='no'>hampi</span>)
 <span class='fu'><a href='https://rdrr.io/r/base/nrow.html'>nrow</a></span> (<span class='no'>graph</span>) <span class='co'># 5,742</span></div><div class='output co'>#&gt; [1] 5973</div><div class='input'><span class='no'>graph</span> <span class='kw'>&lt;-</span> <span class='fu'>dodgr_sample</span> (<span class='no'>graph</span>, <span class='kw'>nverts</span> <span class='kw'>=</span> <span class='fl'>200</span>)
-<span class='fu'><a href='https://rdrr.io/r/base/nrow.html'>nrow</a></span> (<span class='no'>graph</span>) <span class='co'># generally around 400 edges</span></div><div class='output co'>#&gt; [1] 419</div><div class='input'><span class='fu'><a href='https://rdrr.io/r/base/nrow.html'>nrow</a></span> (<span class='fu'><a href='dodgr_vertices.html'>dodgr_vertices</a></span> (<span class='no'>graph</span>)) <span class='co'># 200</span></div><div class='output co'>#&gt; [1] 200</div></pre>
+<span class='fu'><a href='https://rdrr.io/r/base/nrow.html'>nrow</a></span> (<span class='no'>graph</span>) <span class='co'># generally around 400 edges</span></div><div class='output co'>#&gt; [1] 417</div><div class='input'><span class='fu'><a href='https://rdrr.io/r/base/nrow.html'>nrow</a></span> (<span class='fu'><a href='dodgr_vertices.html'>dodgr_vertices</a></span> (<span class='no'>graph</span>)) <span class='co'># 200</span></div><div class='output co'>#&gt; [1] 200</div></pre>
   </div>
   <div class="col-md-3 hidden-xs hidden-sm" id="sidebar">
     <h2>Contents</h2>
